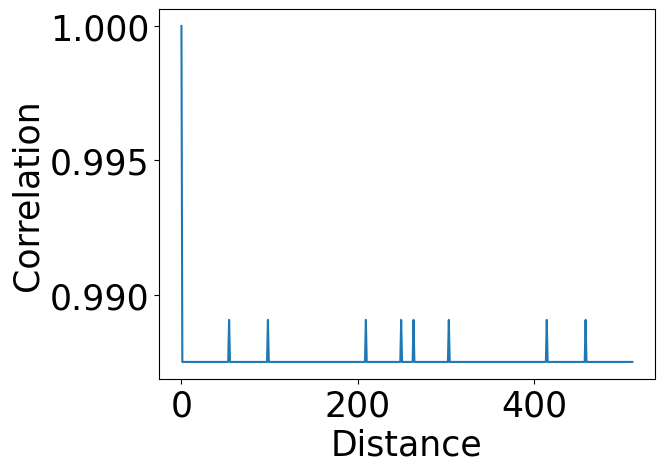
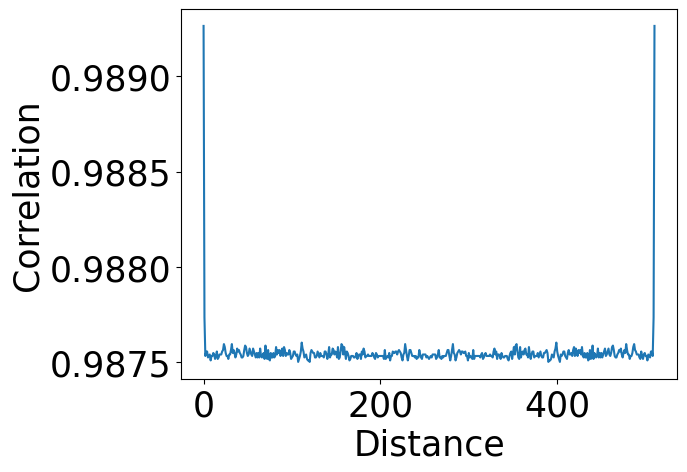
adding long run

diff --git a/ising.py b/ising.py
@@ -584,7 +584,7 @@ def run_chosen_simulation(output_dir=None):
         flip_dynamics=FlipDynamics.SINGLE,
     )
     simulation.run(200, should_save=False)
-    simulation.run(1000)
+    simulation.run(10000)
     plt.plot(simulation.info.mean_correlation)
     plt.xlabel("Distance")
     plt.ylabel("Correlation")
@@ -613,4 +613,4 @@ if __name__ == "__main__":
     # run_thermalization_periods()
     # plot_random_step_probability(512, 100, "output/random_step_probability")
     # plot_steps_to_magnetization("output/steps_to_magnetization")
-    run_chosen_simulation("output/chosen_simulation_test")
+    run_chosen_simulation("output/chosen_simulation_long")

diff --git a/ising_from_partition.py b/ising_from_partition.py
@@ -23,8 +23,12 @@ def main_sympy(number_of_spins, magnetic_field, magnetization_coefficient, tempe
     log_partition_function = sympy.log(partition_function)
     energy = -sympy.diff(log_partition_function, beta)
     heat_capacity = sympy.diff(energy, beta) * beta**2
+    correlation_fu
     print(f"Energy: {float(energy.subs({beta: 1/temperature}))}")
     print(f"Specific heat capacity: {float(heat_capacity.subs({beta: 1/temperature}))}")
+    print(
+        f"Correlation length: {float(correlation_length.subs({beta: 1/temperature}))}"
+    )
 
 
 if __name__ == "__main__":
